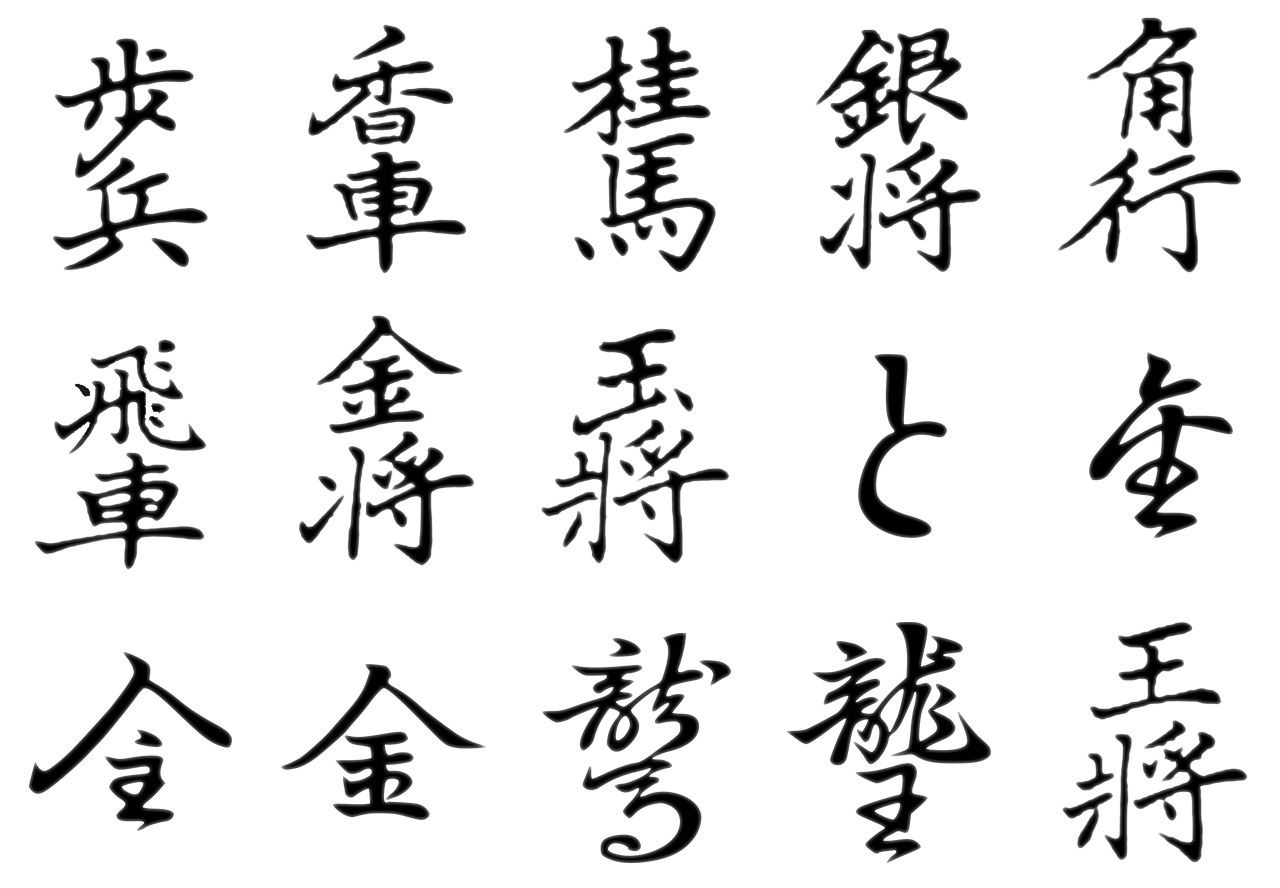
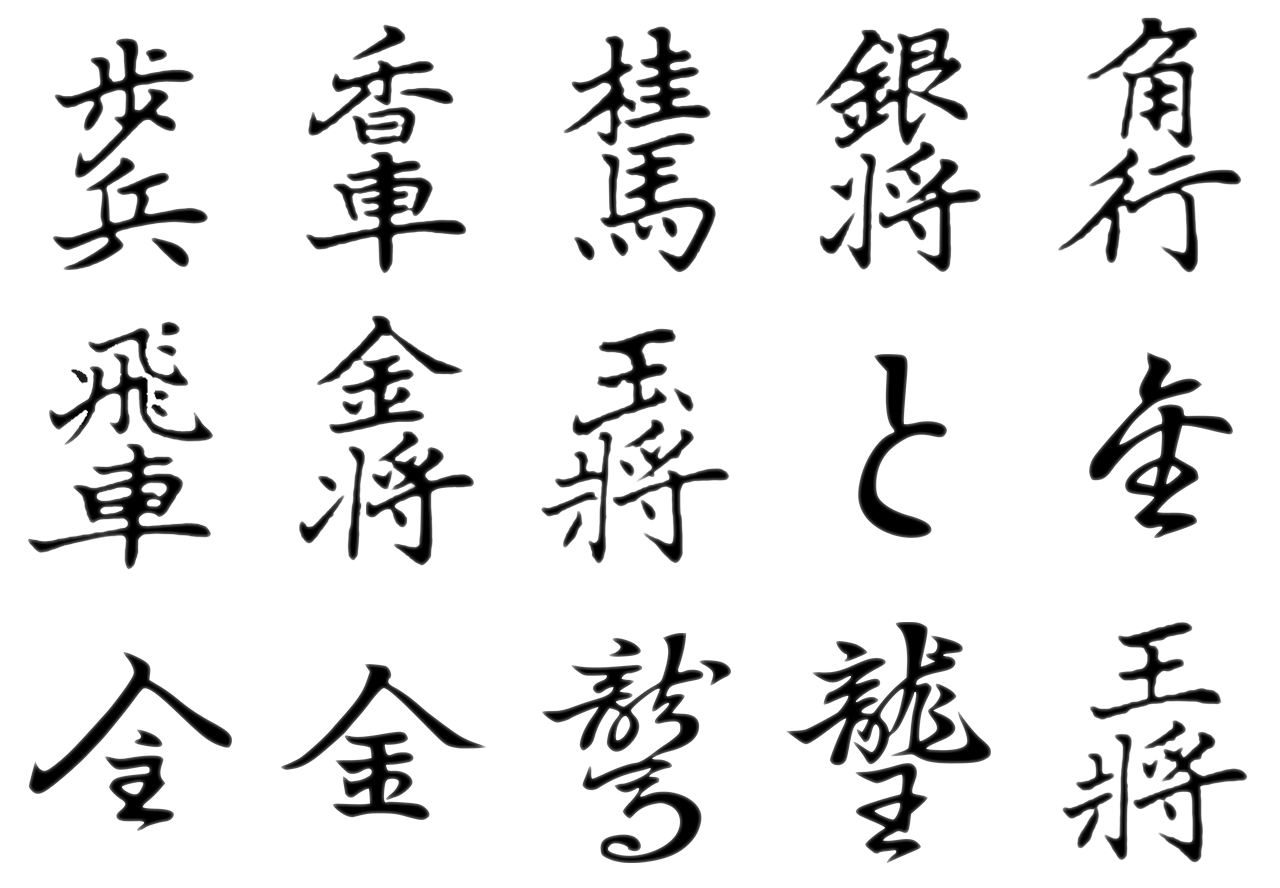
菱湖の3D飛車を角行と同じくらいの大きさに／盤面反転の回転中は盤を別レイヤーにして軽く (#1979)
Claude-Session: https://claude.ai/code/session_01EiWRAYByTmXcP47Jkr4HVf

Changed region(s): [[0.0312, 0.3649, 0.1875, 0.6385], [0.0312, 0.6081, 0.0625, 0.6385]]

diff --git a/atlas/lazy.js b/atlas/lazy.js
@@ -5,7 +5,7 @@
      AtlasLazy.has3D(id) / hasPlay(id) / hasRules(id) — known before loading; AtlasLazy.loaded(id) */
 (function () {
 'use strict';
-const G = {"reversi": ["games/reversi.js?v=49", "rules/reversi.js?v=14"], "shogi": ["models/shogi.js?v=88", "games/shogi-play.js?v=39", "games/shogi.js?v=16", "rules/shogi.js?v=21"], "chess": ["models/chess.js?v=16", "games/chess.js?v=15", "rules/chess.js?v=7"], "backgammon": ["models/backgammon.js?v=121", "games/backgammon.js?v=23", "rules/backgammon.js?v=11"], "gomoku": ["models/goban.js?v=14", "games/gomoku.js?v=13", "rules/gomoku.js?v=9"], "go": ["models/goban.js?v=14", "games/go.js?v=7", "rules/go.js?v=7"], "hex": ["models/goban.js?v=14", "models/hex.js?v=2", "games/hex.js?v=6", "rules/hex.js?v=6"], "tafl": ["games/tafl.js?v=15", "rules/tafl.js?v=7"], "xiangqi": ["models/xiangqi.js?v=4", "games/xiangqi.js?v=14", "rules/xiangqi.js?v=6"], "janggi": ["models/xiangqi.js?v=4", "models/janggi.js?v=3", "games/janggi.js?v=6", "rules/janggi.js?v=2"], "checkers": ["models/checkers.js?v=17", "games/checkers.js?v=8", "rules/checkers.js?v=4"], "ugolki": ["models/checkers.js?v=17", "models/ugolki.js?v=4", "games/ugolki.js?v=8", "rules/ugolki.js?v=8"], "morris": ["models/morris.js?v=7", "games/morris-pieces.js?v=2", "games/morris.js?v=7", "rules/morris.js?v=5"], "connect4": ["models/connect4.js?v=5", "games/connect4-tiles.js?v=1", "games/connect4.js?v=5", "rules/connect4.js?v=3"], "mancala": ["models/mancala.js?v=5", "games/mancala.js?v=10", "rules/mancala.js?v=4"], "dots": ["models/dots.js?v=4", "games/dots.js?v=9", "rules/dots.js?v=3"], "ur": ["models/ur-dice.js?v=2", "models/ur.js?v=4", "games/ur-kit.js?v=15", "games/ur.js?v=11", "rules/ur.js?v=16"], "fanorona": ["models/fanorona.js?v=4", "games/fanorona.js?v=6", "rules/fanorona.js?v=8"], "konane": ["models/konane.js?v=7", "games/konane.js?v=11", "rules/konane.js?v=5"], "amazons": ["models/amazons.js?v=7", "games/amazons.js?v=10", "rules/amazons.js?v=5"], "senet": ["models/ur-dice.js?v=2", "models/senet.js?v=10", "games/senet-kit.js?v=5", "games/senet.js?v=16", "rules/senet.js?v=8"], "agon": ["models/agon.js?v=4", "games/agon.js?v=11", "rules/agon.js?v=5"], "alquerque": ["models/alquerque.js?v=3", "rules/alquerque.js?v=6"], "ludo": ["../ludo/engine.js?v=3", "../ludo/house.js?v=7", "../ludo/board2d.js?v=7", "../ludo/board-art.js?v=3", "models/ludo.js?v=10", "games/ludo.js?v=28", "rules/ludo.js?v=3"], "carrom": ["../carrom/engine.js?v=6", "models/carrom.js?v=17", "games/carrom.js?v=37", "rules/carrom.js?v=8"], "crokinole": ["../carrom/engine.js?v=6", "games/carrom.js?v=37", "../crokinole/engine.js?v=3", "models/crokinole.js?v=12", "games/crokinole.js?v=14", "rules/crokinole.js?v=4"], "hockey": ["../hockey/engine.js?v=15", "models/hockey.js?v=8", "games/hockey.js?v=28", "rules/hockey.js?v=7"], "peg": ["../peg/engine.js?v=1", "../peg/i18n.js?v=6", "models/peg.js?v=6", "games/peg.js?v=1", "rules/peg.js?v=4"]};
+const G = {"reversi": ["games/reversi.js?v=49", "rules/reversi.js?v=14"], "shogi": ["models/shogi.js?v=89", "games/shogi-play.js?v=39", "games/shogi.js?v=16", "rules/shogi.js?v=21"], "chess": ["models/chess.js?v=16", "games/chess.js?v=15", "rules/chess.js?v=7"], "backgammon": ["models/backgammon.js?v=121", "games/backgammon.js?v=23", "rules/backgammon.js?v=11"], "gomoku": ["models/goban.js?v=14", "games/gomoku.js?v=13", "rules/gomoku.js?v=9"], "go": ["models/goban.js?v=14", "games/go.js?v=7", "rules/go.js?v=7"], "hex": ["models/goban.js?v=14", "models/hex.js?v=2", "games/hex.js?v=6", "rules/hex.js?v=6"], "tafl": ["games/tafl.js?v=15", "rules/tafl.js?v=7"], "xiangqi": ["models/xiangqi.js?v=4", "games/xiangqi.js?v=14", "rules/xiangqi.js?v=6"], "janggi": ["models/xiangqi.js?v=4", "models/janggi.js?v=3", "games/janggi.js?v=6", "rules/janggi.js?v=2"], "checkers": ["models/checkers.js?v=17", "games/checkers.js?v=8", "rules/checkers.js?v=4"], "ugolki": ["models/checkers.js?v=17", "models/ugolki.js?v=4", "games/ugolki.js?v=8", "rules/ugolki.js?v=8"], "morris": ["models/morris.js?v=7", "games/morris-pieces.js?v=2", "games/morris.js?v=7", "rules/morris.js?v=5"], "connect4": ["models/connect4.js?v=5", "games/connect4-tiles.js?v=1", "games/connect4.js?v=5", "rules/connect4.js?v=3"], "mancala": ["models/mancala.js?v=5", "games/mancala.js?v=10", "rules/mancala.js?v=4"], "dots": ["models/dots.js?v=4", "games/dots.js?v=9", "rules/dots.js?v=3"], "ur": ["models/ur-dice.js?v=2", "models/ur.js?v=4", "games/ur-kit.js?v=15", "games/ur.js?v=11", "rules/ur.js?v=16"], "fanorona": ["models/fanorona.js?v=4", "games/fanorona.js?v=6", "rules/fanorona.js?v=8"], "konane": ["models/konane.js?v=7", "games/konane.js?v=11", "rules/konane.js?v=5"], "amazons": ["models/amazons.js?v=7", "games/amazons.js?v=10", "rules/amazons.js?v=5"], "senet": ["models/ur-dice.js?v=2", "models/senet.js?v=10", "games/senet-kit.js?v=5", "games/senet.js?v=16", "rules/senet.js?v=8"], "agon": ["models/agon.js?v=4", "games/agon.js?v=11", "rules/agon.js?v=5"], "alquerque": ["models/alquerque.js?v=3", "rules/alquerque.js?v=6"], "ludo": ["../ludo/engine.js?v=3", "../ludo/house.js?v=7", "../ludo/board2d.js?v=7", "../ludo/board-art.js?v=3", "models/ludo.js?v=10", "games/ludo.js?v=28", "rules/ludo.js?v=3"], "carrom": ["../carrom/engine.js?v=6", "models/carrom.js?v=17", "games/carrom.js?v=37", "rules/carrom.js?v=8"], "crokinole": ["../carrom/engine.js?v=6", "games/carrom.js?v=37", "../crokinole/engine.js?v=3", "models/crokinole.js?v=12", "games/crokinole.js?v=14", "rules/crokinole.js?v=4"], "hockey": ["../hockey/engine.js?v=15", "models/hockey.js?v=8", "games/hockey.js?v=28", "rules/hockey.js?v=7"], "peg": ["../peg/engine.js?v=1", "../peg/i18n.js?v=6", "models/peg.js?v=6", "games/peg.js?v=1", "rules/peg.js?v=4"]};
 const F = {"reversi": {"t3": true, "play": true, "rules": true}, "shogi": {"t3": true, "play": true, "rules": true}, "chess": {"t3": true, "play": true, "rules": true}, "backgammon": {"t3": true, "play": true, "rules": true}, "gomoku": {"t3": true, "play": true, "rules": true}, "go": {"t3": true, "play": true, "rules": true}, "hex": {"t3": true, "play": true, "rules": true}, "tafl": {"t3": true, "play": true, "rules": true}, "xiangqi": {"t3": true, "play": true, "rules": true}, "janggi": {"t3": true, "play": true, "rules": true}, "checkers": {"t3": true, "play": true, "rules": true}, "ugolki": {"t3": true, "play": true, "rules": true}, "morris": {"t3": true, "play": true, "rules": true}, "connect4": {"t3": true, "play": true, "rules": true}, "mancala": {"t3": true, "play": true, "rules": true}, "dots": {"t3": true, "play": true, "rules": true}, "ur": {"t3": true, "play": true, "rules": true}, "fanorona": {"t3": true, "play": true, "rules": true}, "konane": {"t3": true, "play": true, "rules": true}, "amazons": {"t3": true, "play": true, "rules": true}, "senet": {"t3": true, "play": true, "rules": true}, "agon": {"t3": true, "play": true, "rules": true}, "alquerque": {"t3": true, "play": false, "rules": true}, "ludo": {"t3": true, "play": true, "rules": true}, "carrom": {"t3": true, "play": true, "rules": true}, "crokinole": {"t3": true, "play": true, "rules": true}, "hockey": {"t3": true, "play": true, "rules": true}, "peg": {"t3": true, "play": true, "rules": true}};
 const done = new Set(), loading = new Map(), ok = new Set();
 function load(src) {

diff --git a/dots/index.html b/dots/index.html
@@ -2299,7 +2299,7 @@ document.querySelector('#rsResume').onclick = () => { document.querySelector('#r
   const f = document.createElement('link'); f.rel = 'stylesheet'; f.href = 'https://fonts.googleapis.com/css2?family=RocknRoll+One&family=Zen+Maru+Gothic:wght@500;700;900&family=Fredoka:wght@600;700&family=Kalam:wght@400;700&family=Zen+Kurenaido&family=Nanum+Pen+Script&family=Long+Cang&family=Aref+Ruqaa:wght@700&display=swap'; document.head.appendChild(f);   // (Kalam … Aref Ruqaa: the handwritten box initials and tally on the notebook page)
   const load = src => new Promise((res, rej) => { const s = document.createElement('script'); s.src = src; s.onload = res; s.onerror = rej; document.body.appendChild(s); });
   if (window.AtlasLoading) { AtlasLoading.show(); setTimeout(() => AtlasLoading.hide(), 12000); }   // safety net
-  load('https://cdnjs.cloudflare.com/ajax/libs/three.js/r128/three.min.js').then(() => load('../atlas/img/tex/baked.js?v=2')).then(() => load('../atlas/table3d.js?v=163')).then(() => load('../atlas/tables3d.js?v=106')).then(() => load('../atlas/skin/common.js?v=95')).then(() => load('../atlas/models/dots.js?v=3l14')).then(() => load('../atlas/skin/dots.js?v=7l14'))
+  load('https://cdnjs.cloudflare.com/ajax/libs/three.js/r128/three.min.js').then(() => load('../atlas/img/tex/baked.js?v=2')).then(() => load('../atlas/table3d.js?v=163')).then(() => load('../atlas/tables3d.js?v=106')).then(() => load('../atlas/skin/common.js?v=96')).then(() => load('../atlas/models/dots.js?v=3l14')).then(() => load('../atlas/skin/dots.js?v=7l14'))
     .catch(() => { document.documentElement.classList.remove('atlas-skin'); if (window.AtlasLoading) AtlasLoading.hide(); });
 })();
 </script>

diff --git a/ur/index.html b/ur/index.html
@@ -1029,7 +1029,7 @@ html:not([lang=ja]):not([lang=zh]):not([lang="zh-TW"]):not([lang=ko]) .result-bi
   const f = document.createElement('link'); f.rel = 'stylesheet'; f.href = 'https://fonts.googleapis.com/css2?family=RocknRoll+One&family=Zen+Maru+Gothic:wght@500;700;900&family=Fredoka:wght@600;700&display=swap'; document.head.appendChild(f);
   const load = src => new Promise((res, rej) => { const s = document.createElement('script'); s.src = src; s.onload = res; s.onerror = rej; document.body.appendChild(s); });
   if (window.AtlasLoading) { AtlasLoading.show(); setTimeout(() => AtlasLoading.hide(), 12000); }   // safety net
-  load('https://cdnjs.cloudflare.com/ajax/libs/three.js/r128/three.min.js').then(() => load('../atlas/img/tex/baked.js?v=2')).then(() => load('../atlas/table3d.js?v=163')).then(() => load('../atlas/tables3d.js?v=106')).then(() => load('../atlas/skin/common.js?v=95')).then(() => load('../atlas/models/ur-dice.js?v=2l14')).then(() => load('../atlas/models/ur.js?v=3l14')).then(() => load('../atlas/skin/ur.js?v=14l14'))
+  load('https://cdnjs.cloudflare.com/ajax/libs/three.js/r128/three.min.js').then(() => load('../atlas/img/tex/baked.js?v=2')).then(() => load('../atlas/table3d.js?v=163')).then(() => load('../atlas/tables3d.js?v=106')).then(() => load('../atlas/skin/common.js?v=96')).then(() => load('../atlas/models/ur-dice.js?v=2l14')).then(() => load('../atlas/models/ur.js?v=3l14')).then(() => load('../atlas/skin/ur.js?v=14l14'))
     .catch(() => { const u = new URL(location.href); u.searchParams.delete('skin'); location.replace(u.href); });   // (the 3D files are missing: the plain 2D page)
 })();
 </script>

diff --git a/connect4/index.html b/connect4/index.html
@@ -3390,7 +3390,7 @@ document.addEventListener('keydown', e => {
   const f = document.createElement('link'); f.rel = 'stylesheet'; f.href = 'https://fonts.googleapis.com/css2?family=RocknRoll+One&family=Zen+Maru+Gothic:wght@500;700;900&family=Fredoka:wght@600;700&display=swap'; document.head.appendChild(f);
   const load = src => new Promise((res, rej) => { const s = document.createElement('script'); s.src = src; s.onload = res; s.onerror = rej; document.body.appendChild(s); });
   if (window.AtlasLoading) { AtlasLoading.show(); setTimeout(() => AtlasLoading.hide(), 12000); }   // safety net
-  load('https://cdnjs.cloudflare.com/ajax/libs/three.js/r128/three.min.js').then(() => load('../atlas/img/tex/baked.js?v=2')).then(() => load('../atlas/table3d.js?v=163')).then(() => load('../atlas/tables3d.js?v=106')).then(() => load('../atlas/skin/common.js?v=95')).then(() => load('../atlas/models/connect4.js?v=5l14')).then(() => load('../atlas/games/connect4-tiles.js?v=1l14')).then(() => load('../atlas/skin/connect4.js?v=6l14-aim'))
+  load('https://cdnjs.cloudflare.com/ajax/libs/three.js/r128/three.min.js').then(() => load('../atlas/img/tex/baked.js?v=2')).then(() => load('../atlas/table3d.js?v=163')).then(() => load('../atlas/tables3d.js?v=106')).then(() => load('../atlas/skin/common.js?v=96')).then(() => load('../atlas/models/connect4.js?v=5l14')).then(() => load('../atlas/games/connect4-tiles.js?v=1l14')).then(() => load('../atlas/skin/connect4.js?v=6l14-aim'))
     .catch(() => { document.documentElement.classList.remove('atlas-skin'); if (window.AtlasLoading) AtlasLoading.hide(); });
 })();
 </script>

diff --git a/atlas/skin/common.js b/atlas/skin/common.js
@@ -549,7 +549,7 @@
     if (o.turn === false || !T3.turn) return;
     cancelAnimationFrame(turnRaf);
     const st = boardDom.style, ups = o.upright ? [...boardDom.querySelectorAll(o.upright)] : [];
-    const clear = () => { st.rotate = st.scale = ''; ups.forEach(e => { e.style.rotate = ''; }); };
+    const clear = () => { st.rotate = st.scale = st.willChange = ''; ups.forEach(e => { e.style.rotate = ''; }); };
     const b = box();
     if (document.documentElement.classList.contains('atlas-2d') || !host.getClientRects().length || !b.w) { turnRaf = 0; clear(); turnRest(); document.documentElement.classList.remove('atlas-turning'); return; }   // (the 2D board: no turn, the 3D one rests in place for later)
     const front = o.turn === 'y', Y1 = holdYaw(), d = Y1 ? -1 : 1;   // yaw = Y1 + d·a while a goes π → 0
@@ -580,6 +580,7 @@
     const step = now => { const k = window.__atlasTurnK ?? Math.min(1, (now - t0) / D);   // (__atlasTurnK: a fixed point of the turn, for checking it)
       if (k >= 1) return done(); pose(Math.PI * (1 - ease(k))); turnRaf = requestAnimationFrame(step); };
     document.documentElement.classList.add('atlas-turning');   // (html.atlas-turning: glare layers over the board fade out meanwhile — skin.css)
+    st.willChange = 'rotate, scale';   // (its own layer while turning: the pieces' masks and shadows are drawn once, not again every frame — the 3D shogi board turned slowly, 2026-11-13)
     pose(Math.PI); turnRaf = requestAnimationFrame(step);
   }
   /* ---------- the portal's top bar: logo, coins, language, home (same layout as the portal) ---------- */

diff --git a/morris/index.html b/morris/index.html
@@ -3897,7 +3897,7 @@ window.addEventListener('resize', () => renderFx());
   const f = document.createElement('link'); f.rel = 'stylesheet'; f.href = 'https://fonts.googleapis.com/css2?family=RocknRoll+One&family=Zen+Maru+Gothic:wght@500;700;900&family=Fredoka:wght@600;700&display=swap'; document.head.appendChild(f);
   const load = src => new Promise((res, rej) => { const s = document.createElement('script'); s.src = src; s.onload = res; s.onerror = rej; document.body.appendChild(s); });
   if (window.AtlasLoading) { AtlasLoading.show(); setTimeout(() => AtlasLoading.hide(), 12000); }   // safety net
-  load('https://cdnjs.cloudflare.com/ajax/libs/three.js/r128/three.min.js').then(() => load('../atlas/img/tex/baked.js?v=2')).then(() => load('../atlas/table3d.js?v=163')).then(() => load('../atlas/tables3d.js?v=106')).then(() => load('../atlas/skin/common.js?v=95')).then(() => load('../atlas/models/morris.js?v=6l14')).then(() => load('../atlas/games/morris-pieces.js?v=2l14')).then(() => load('../atlas/skin/morris.js?v=6l15'))
+  load('https://cdnjs.cloudflare.com/ajax/libs/three.js/r128/three.min.js').then(() => load('../atlas/img/tex/baked.js?v=2')).then(() => load('../atlas/table3d.js?v=163')).then(() => load('../atlas/tables3d.js?v=106')).then(() => load('../atlas/skin/common.js?v=96')).then(() => load('../atlas/models/morris.js?v=6l14')).then(() => load('../atlas/games/morris-pieces.js?v=2l14')).then(() => load('../atlas/skin/morris.js?v=6l15'))
     .catch(() => { document.documentElement.classList.remove('atlas-skin'); if (window.AtlasLoading) AtlasLoading.hide(); });
 })();
 </script>

diff --git a/senet/index.html b/senet/index.html
@@ -1030,7 +1030,7 @@ html:not([lang=ja]):not([lang=zh]):not([lang=zh-TW]):not([lang=ko]) .result-big{
   const f = document.createElement('link'); f.rel = 'stylesheet'; f.href = 'https://fonts.googleapis.com/css2?family=RocknRoll+One&family=Zen+Maru+Gothic:wght@500;700;900&family=Fredoka:wght@600;700&display=swap'; document.head.appendChild(f);
   const load = src => new Promise((res, rej) => { const s = document.createElement('script'); s.src = src; s.onload = res; s.onerror = rej; document.body.appendChild(s); });
   if (window.AtlasLoading) { AtlasLoading.show(); setTimeout(() => AtlasLoading.hide(), 12000); }   // safety net
-  load('https://cdnjs.cloudflare.com/ajax/libs/three.js/r128/three.min.js').then(() => load('../atlas/img/tex/baked.js?v=2')).then(() => load('../atlas/table3d.js?v=163')).then(() => load('../atlas/tables3d.js?v=106')).then(() => load('../atlas/skin/common.js?v=95')).then(() => load('../atlas/models/senet.js?v=10l14')).then(() => load('../atlas/skin/senet.js?v=10l14'))
+  load('https://cdnjs.cloudflare.com/ajax/libs/three.js/r128/three.min.js').then(() => load('../atlas/img/tex/baked.js?v=2')).then(() => load('../atlas/table3d.js?v=163')).then(() => load('../atlas/tables3d.js?v=106')).then(() => load('../atlas/skin/common.js?v=96')).then(() => load('../atlas/models/senet.js?v=10l14')).then(() => load('../atlas/skin/senet.js?v=10l14'))
     .catch(() => { const u = new URL(location.href); u.searchParams.delete('skin'); location.replace(u.href); });   // (the 3D files are missing: the plain 2D page)
 })();
 </script>

diff --git a/fanorona/index.html b/fanorona/index.html
@@ -1687,7 +1687,7 @@ body.lt-on .reserve .onb.on{border-color:var(--accent);box-shadow:0 0 0 1px var(
   const f = document.createElement('link'); f.rel = 'stylesheet'; f.href = 'https://fonts.googleapis.com/css2?family=RocknRoll+One&family=Zen+Maru+Gothic:wght@500;700;900&family=Fredoka:wght@600;700&display=swap'; document.head.appendChild(f);
   const load = src => new Promise((res, rej) => { const s = document.createElement('script'); s.src = src; s.onload = res; s.onerror = rej; document.body.appendChild(s); });
   if (window.AtlasLoading) { AtlasLoading.show(); setTimeout(() => AtlasLoading.hide(), 12000); }   // safety net
-  load('https://cdnjs.cloudflare.com/ajax/libs/three.js/r128/three.min.js').then(() => load('../atlas/img/tex/baked.js?v=2')).then(() => load('../atlas/table3d.js?v=163')).then(() => load('../atlas/tables3d.js?v=106')).then(() => load('../atlas/skin/common.js?v=95')).then(() => load('../atlas/models/fanorona.js?v=3l14')).then(() => load('../atlas/skin/fanorona.js?v=6l14'))
+  load('https://cdnjs.cloudflare.com/ajax/libs/three.js/r128/three.min.js').then(() => load('../atlas/img/tex/baked.js?v=2')).then(() => load('../atlas/table3d.js?v=163')).then(() => load('../atlas/tables3d.js?v=106')).then(() => load('../atlas/skin/common.js?v=96')).then(() => load('../atlas/models/fanorona.js?v=3l14')).then(() => load('../atlas/skin/fanorona.js?v=6l14'))
     .catch(() => { document.documentElement.classList.remove('atlas-skin'); if (window.AtlasLoading) AtlasLoading.hide(); });
 })();
 </script>

diff --git a/mancala/index.html b/mancala/index.html
@@ -1586,7 +1586,7 @@ html[data-sk=ocean] .seed{box-shadow:0 calc(var(--u) * .025) calc(var(--u) * .04
   const f = document.createElement('link'); f.rel = 'stylesheet'; f.href = 'https://fonts.googleapis.com/css2?family=RocknRoll+One&family=Zen+Maru+Gothic:wght@500;700;900&family=Fredoka:wght@600;700&display=swap'; document.head.appendChild(f);
   const load = src => new Promise((res, rej) => { const s = document.createElement('script'); s.src = src; s.onload = res; s.onerror = rej; document.body.appendChild(s); });
   if (window.AtlasLoading) { AtlasLoading.show(); setTimeout(() => AtlasLoading.hide(), 12000); }   // safety net
-  load('https://cdnjs.cloudflare.com/ajax/libs/three.js/r128/three.min.js').then(() => load('../atlas/img/tex/baked.js?v=2')).then(() => load('../atlas/table3d.js?v=163')).then(() => load('../atlas/tables3d.js?v=106')).then(() => load('../atlas/skin/common.js?v=95')).then(() => load('../atlas/models/mancala.js?v=4l14')).then(() => load('../atlas/skin/mancala.js?v=10l14'))
+  load('https://cdnjs.cloudflare.com/ajax/libs/three.js/r128/three.min.js').then(() => load('../atlas/img/tex/baked.js?v=2')).then(() => load('../atlas/table3d.js?v=163')).then(() => load('../atlas/tables3d.js?v=106')).then(() => load('../atlas/skin/common.js?v=96')).then(() => load('../atlas/models/mancala.js?v=4l14')).then(() => load('../atlas/skin/mancala.js?v=10l14'))
     .catch(() => { document.documentElement.classList.remove('atlas-skin'); if (window.AtlasLoading) AtlasLoading.hide(); });
 })();
 </script>

diff --git a/gomoku/index.html b/gomoku/index.html
@@ -1481,7 +1481,7 @@ body.skin-ink .st.b{background:radial-gradient(circle at 34% 28%,#8a8f98 0%,#3c4
   const f = document.createElement('link'); f.rel = 'stylesheet'; f.href = 'https://fonts.googleapis.com/css2?family=RocknRoll+One&family=Zen+Maru+Gothic:wght@500;700;900&family=Fredoka:wght@600;700&display=swap'; document.head.appendChild(f);
   const load = src => new Promise((res, rej) => { const s = document.createElement('script'); s.src = src; s.onload = res; s.onerror = rej; document.body.appendChild(s); });
   if (window.AtlasLoading) { AtlasLoading.show(); setTimeout(() => AtlasLoading.hide(), 12000); }   // safety net
-  load('https://cdnjs.cloudflare.com/ajax/libs/three.js/r128/three.min.js').then(() => load('../atlas/img/tex/baked.js?v=2')).then(() => load('../atlas/table3d.js?v=163')).then(() => load('../atlas/tables3d.js?v=106')).then(() => load('../atlas/skin/common.js?v=95')).then(() => load('../atlas/models/goban.js?v=11l14')).then(() => load('../atlas/skin/gomoku.js?v=4l14'))
+  load('https://cdnjs.cloudflare.com/ajax/libs/three.js/r128/three.min.js').then(() => load('../atlas/img/tex/baked.js?v=2')).then(() => load('../atlas/table3d.js?v=163')).then(() => load('../atlas/tables3d.js?v=106')).then(() => load('../atlas/skin/common.js?v=96')).then(() => load('../atlas/models/goban.js?v=11l14')).then(() => load('../atlas/skin/gomoku.js?v=4l14'))
     .catch(() => { document.documentElement.classList.remove('atlas-skin'); if (window.AtlasLoading) AtlasLoading.hide(); });
 })();
 </script>

diff --git a/ugolki/index.html b/ugolki/index.html
@@ -1393,7 +1393,7 @@ html:is([data-bd=gzhel],[data-bd=birch]) .reserve .rsv-plate .rsv-w:not(.hot) b{
   const f = document.createElement('link'); f.rel = 'stylesheet'; f.href = 'https://fonts.googleapis.com/css2?family=RocknRoll+One&family=Zen+Maru+Gothic:wght@500;700;900&family=Fredoka:wght@600;700&display=swap'; document.head.appendChild(f);
   const load = src => new Promise((res, rej) => { const s = document.createElement('script'); s.src = src; s.onload = res; s.onerror = rej; document.body.appendChild(s); });
   if (window.AtlasLoading) { AtlasLoading.show(); setTimeout(() => AtlasLoading.hide(), 12000); }   // safety net
-  load('https://cdnjs.cloudflare.com/ajax/libs/three.js/r128/three.min.js').then(() => load('../atlas/img/tex/baked.js?v=2')).then(() => load('../atlas/table3d.js?v=163')).then(() => load('../atlas/tables3d.js?v=106')).then(() => load('../atlas/skin/common.js?v=95')).then(() => load('../atlas/models/ugolki.js?v=4l14')).then(() => load('../atlas/skin/ugolki.js?v=2l14'))
+  load('https://cdnjs.cloudflare.com/ajax/libs/three.js/r128/three.min.js').then(() => load('../atlas/img/tex/baked.js?v=2')).then(() => load('../atlas/table3d.js?v=163')).then(() => load('../atlas/tables3d.js?v=106')).then(() => load('../atlas/skin/common.js?v=96')).then(() => load('../atlas/models/ugolki.js?v=4l14')).then(() => load('../atlas/skin/ugolki.js?v=2l14'))
     .catch(() => { document.documentElement.classList.remove('atlas-skin'); if (window.AtlasLoading) AtlasLoading.hide(); });
 })();
 </script>

diff --git a/alquerque/index.html b/alquerque/index.html
@@ -1689,7 +1689,7 @@ window.OL_VARIANTS = ['alq', 'alqf']; window.OL_DB_PREFIX = 'alq/';
   const f = document.createElement('link'); f.rel = 'stylesheet'; f.href = 'https://fonts.googleapis.com/css2?family=RocknRoll+One&family=Zen+Maru+Gothic:wght@500;700;900&family=Fredoka:wght@600;700&display=swap'; document.head.appendChild(f);
   const load = src => new Promise((res, rej) => { const s = document.createElement('script'); s.src = src; s.onload = res; s.onerror = rej; document.body.appendChild(s); });
   if (window.AtlasLoading) { AtlasLoading.show(); setTimeout(() => AtlasLoading.hide(), 12000); }   // safety net
-  load('https://cdnjs.cloudflare.com/ajax/libs/three.js/r128/three.min.js').then(() => load('../atlas/img/tex/baked.js?v=2')).then(() => load('../atlas/table3d.js?v=163')).then(() => load('../atlas/tables3d.js?v=106')).then(() => load('../atlas/skin/common.js?v=95')).then(() => load('../atlas/models/alquerque.js?v=3l14')).then(() => load('../atlas/skin/fanorona.js?v=6l14'))
+  load('https://cdnjs.cloudflare.com/ajax/libs/three.js/r128/three.min.js').then(() => load('../atlas/img/tex/baked.js?v=2')).then(() => load('../atlas/table3d.js?v=163')).then(() => load('../atlas/tables3d.js?v=106')).then(() => load('../atlas/skin/common.js?v=96')).then(() => load('../atlas/models/alquerque.js?v=3l14')).then(() => load('../atlas/skin/fanorona.js?v=6l14'))
     .catch(() => { document.documentElement.classList.remove('atlas-skin'); if (window.AtlasLoading) AtlasLoading.hide(); });
 })();
 </script>
